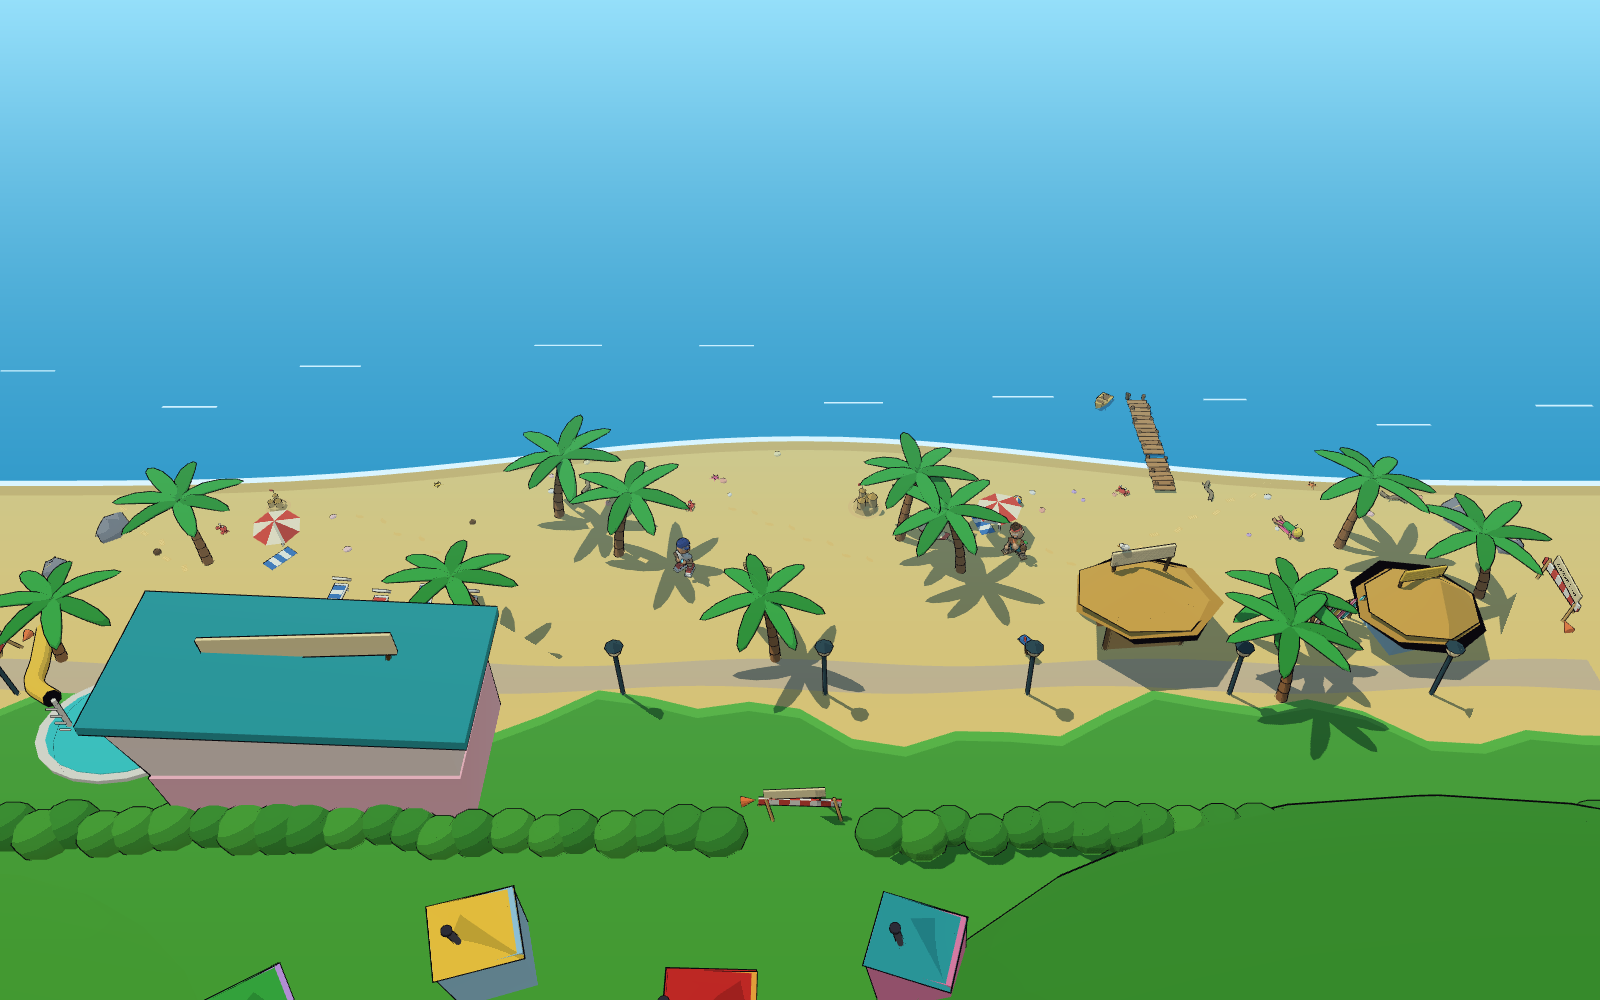
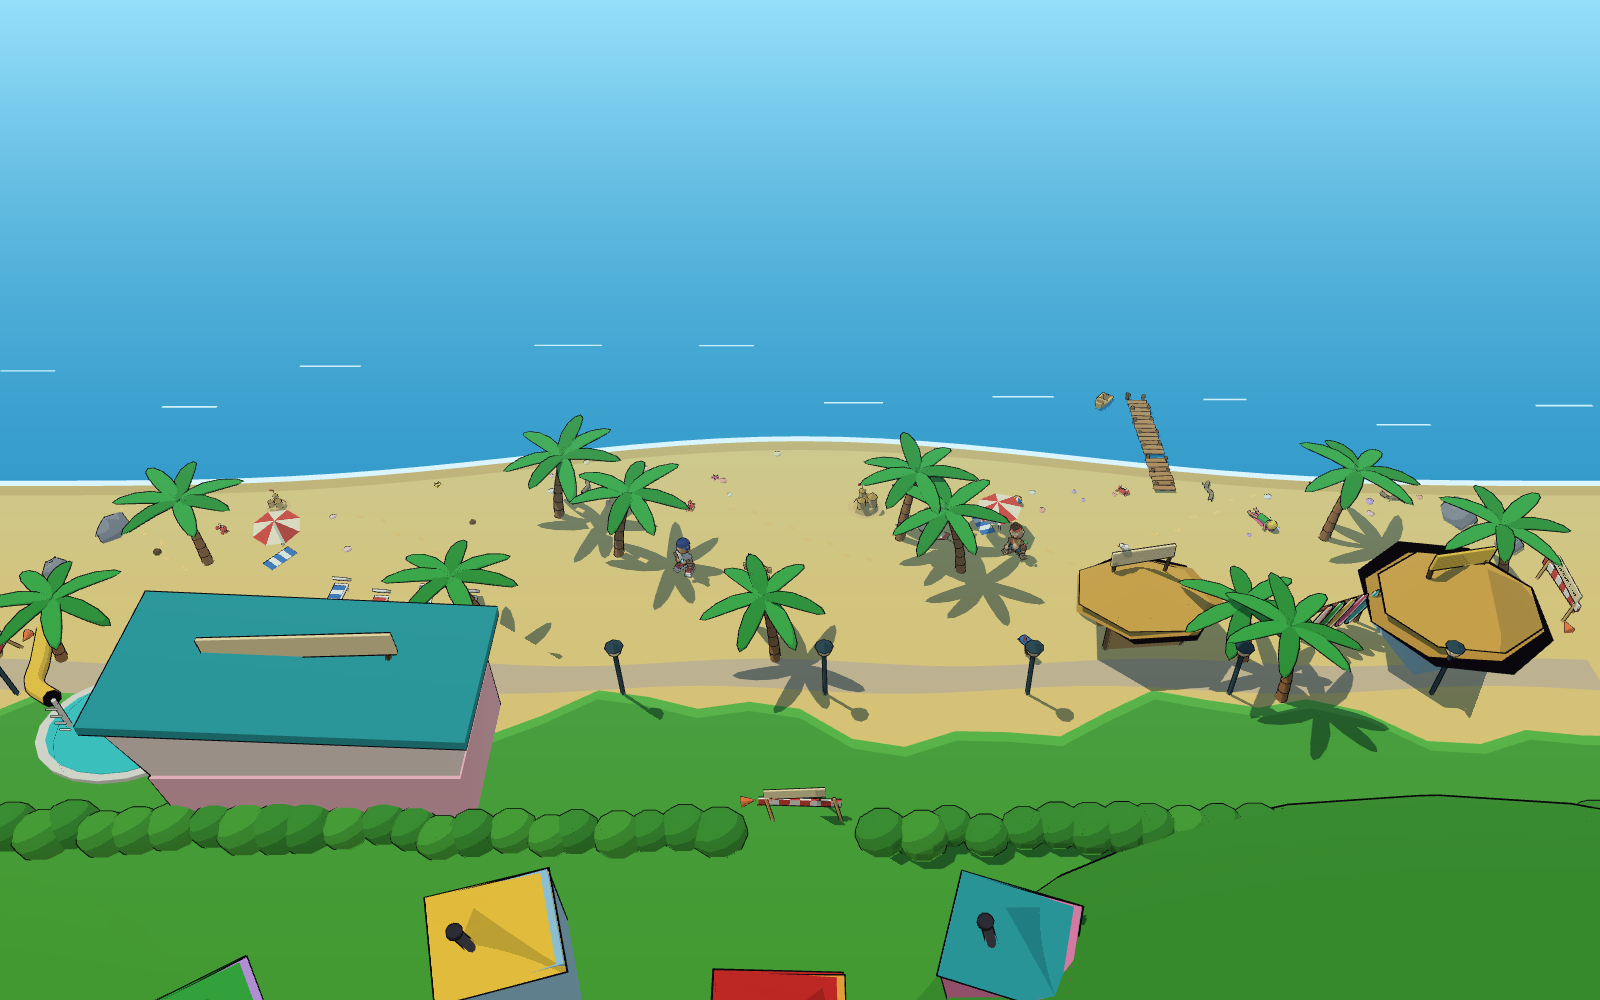
Prototyp: Verleih und Dorfhäuser größer

diff --git a/spiel/js/world.js b/spiel/js/world.js
@@ -3,7 +3,7 @@
 import * as THREE from 'three';
 import { toonMesh, toon, basicMat, deform, rng } from './toon.js';
 import { palm, beachBar, pier, boat, signpost, hammock, parasol, beachBall, coconut, crab, cloud, sun, footprints, limb, hut, mailbox, hotel, lounger, rental, sleepingSurfer, barrier, lamp, hedge, shell, starfish, sandcastle, driftwood } from './props.js';
-import { shoreZ, WORLD, BUILDING_SCALE as S, scaledRect, scaledCircle } from './logic.js';
+import { shoreZ, WORLD, buildingScale, scaledRect, scaledCircle } from './logic.js';
 
 export const WATER_Y = 0.06;
 
@@ -30,8 +30,8 @@ export function buildWorld() {
   const circle = (x, z, r) => colliders.push({ x, z, r });
   const rect = (x, z, w, d) => colliders.push({ x, z, w, d });
   // Gebäude werden als Gruppe um BUILDING_SCALE vergrößert; ihre Collider rechnen Offsets/Maße mit
-  const bRect = (o, dx, dz, w, d) => colliders.push(scaledRect(o, S, dx, dz, w, d));
-  const bCircle = (o, dx, dz, r) => colliders.push(scaledCircle(o, S, dx, dz, r));
+  const bRect = (o, s, dx, dz, w, d) => colliders.push(scaledRect(o, s, dx, dz, w, d));
+  const bCircle = (o, s, dx, dz, r) => colliders.push(scaledCircle(o, s, dx, dz, r));
 
   // Boden: Sand überall, darüber Gras im Norden, nasser Sand + Schaum + Wasser im Süden
   const sand = toonMesh(new THREE.PlaneGeometry(520, 520), 0xf7d984, { outline: 0, shadow: false });
@@ -69,16 +69,16 @@ export function buildWorld() {
   const mentor = hut({ w: 3, h: 2.4, d: 2.6, lean: 0.35, wall: 0x8b5a2b, straw: true, seed: 8 });
   mentor.position.set(-45, 11.5, -52);
   mentor.rotation.y = 0.4;
-  mentor.scale.setScalar(S);
+  mentor.scale.setScalar(buildingScale('mentor'));
   g.add(mentor);
 
   // Krummgassen-Kulisse hinter dem Nordrand
-  const huts = [[-8, -36, 0xf08ac4, 0x2fa9b9, 0.5, 2], [6, -40, 0xffb347, 0xd62e2e, -0.4, 3], [20, -35, 0x9fd8ff, 0xffd54a, 0.45, 4], [34, -41, 0xc9a0ff, 0x3bb84a, -0.5, 5]];
+  const huts = [[-14, -37, 0xf08ac4, 0x2fa9b9, 0.5, 2], [2, -42, 0xffb347, 0xd62e2e, -0.4, 3], [18, -36, 0x9fd8ff, 0xffd54a, 0.45, 4], [36, -43, 0xc9a0ff, 0x3bb84a, -0.5, 5]];
   for (const [x, z, wall, roofColor, lean, seed] of huts) {
     const h = hut({ w: 3.2, h: 3.0, d: 3.0, lean, wall, roofColor, seed });
     h.position.set(x, 0, z);
     h.rotation.y = (seed - 3) * 0.3;
-    h.scale.setScalar(S);
+    h.scale.setScalar(buildingScale('hut'));
     g.add(h);
   }
 
@@ -98,12 +98,13 @@ export function buildWorld() {
   const ho = hotel();
   const hoPos = { x: 34, z: -19 };
   ho.position.set(hoPos.x, 0, hoPos.z);
-  ho.scale.setScalar(S);
+  const hs = buildingScale('hotel');
+  ho.scale.setScalar(hs);
   // Pool nicht voll mitskalieren (sonst liegt er auf der Promenade): 1.2-fach, östlich neben dem Gebäude
-  ho.userData.pool.scale.setScalar(1.2 / S);
-  ho.userData.pool.position.set((52 - hoPos.x) / S, 0, (-16 - hoPos.z) / S);
+  ho.userData.pool.scale.setScalar(1.2 / hs);
+  ho.userData.pool.position.set((52 - hoPos.x) / hs, 0, (-16 - hoPos.z) / hs);
   g.add(ho);
-  bRect(hoPos, 0.3, 0, 15.2, 7.4);
+  bRect(hoPos, hs, 0.3, 0, 15.2, 7.4);
   rect(52, -16, 13.5, 10.5); // Pool (Rutsche hängt hoch genug)
   for (let i = 0; i < 4; i++) {
     const lo = lounger(i % 2 ? ['#3a7bd5', '#ffffff'] : ['#e8463a', '#fff5e0']);
@@ -116,18 +117,19 @@ export function buildWorld() {
 
   // Verleih im Westen + Surfer-Siesta
   const re = rental();
-  const rePos = { x: -50, z: -6 };
+  const rePos = { x: -52, z: -7 };
   re.position.set(rePos.x, 0, rePos.z);
   re.rotation.y = 0.25;
-  re.scale.setScalar(S);
+  const rs = buildingScale('rental');
+  re.scale.setScalar(rs);
   g.add(re);
-  bRect(rePos, 0, 0, 4.2, 3.4);
-  bRect(rePos, 3.8, 1.0, 3.4, 1.0);
+  bRect(rePos, rs, 0, 0, 4.2, 3.4);
+  bRect(rePos, rs, 3.8, 1.0, 3.4, 1.0);
   const su = sleepingSurfer();
-  su.position.set(-44, 0, 6);
+  su.position.set(-42, 0, 7);
   su.rotation.y = 0.5;
   g.add(su);
-  rect(-44, 6, 1.4, 3.0);
+  rect(-42, 7, 1.4, 3.0);
 
   // Felsen an den Enden des Strands
   for (const [x, z, sc] of [[-60, 8, 1.6], [-63, 4, 1.1], [62, 6, 1.4], [65, 1, 1.0], [58, 10, 0.8]]) {
@@ -141,7 +143,7 @@ export function buildWorld() {
 
   // Palmen entlang des Strands (Position, Neigung, Seed)
   const palms = [
-    [-58, -2, [1.2, 0, 0.6], 1], [-48, 4, [-0.9, 0, 0.8], 2], [-40, -8, [0.8, 0, 0.3], 3],
+    [-60, -1, [1.2, 0, 0.6], 1], [-57, 7, [-0.9, 0, 0.8], 2], [-36, -9, [0.8, 0, 0.3], 3],
     [-14, 1, [1.1, 0, 0.5], 4], [-9, 5, [-0.8, 0, 0.7], 5], [2, -9, [0.6, 0, 0.9], 6],
     [16, 3, [-1.0, 0, 0.6], 7], [26, -6, [1.2, 0, -0.3], 8], [52, 2, [0.7, 0, 0.9], 9],
     [60, -9, [-1.1, 0, 0.4], 10], [-38, -13, [0.5, 0, 1.0], 11], [22, 8, [-0.6, 0, 0.8], 12],
@@ -167,11 +169,12 @@ export function buildWorld() {
   const barPos = { x: -28, z: -6 };
   bar.position.set(barPos.x, 0, barPos.z);
   bar.rotation.y = 0.08;
-  bar.scale.setScalar(S);
+  const bs = buildingScale('bar');
+  bar.scale.setScalar(bs);
   g.add(bar);
-  bRect(barPos, 0, 0.4, 5.0, 2.2);   // Theke + Rückwand
-  bCircle(barPos, -2.1, -1.1, 0.25); bCircle(barPos, 2.1, -1.1, 0.25); bCircle(barPos, -1.9, 1.0, 0.25); bCircle(barPos, 2.1, 1.0, 0.25);
-  bCircle(barPos, -1.1, 1.9, 0.4); bCircle(barPos, 0.5, 1.9, 0.4); // Hocker
+  bRect(barPos, bs, 0, 0.4, 5.0, 2.2);   // Theke + Rückwand
+  bCircle(barPos, bs, -2.1, -1.1, 0.25); bCircle(barPos, bs, 2.1, -1.1, 0.25); bCircle(barPos, bs, -1.9, 1.0, 0.25); bCircle(barPos, bs, 2.1, 1.0, 0.25);
+  bCircle(barPos, bs, -1.1, 1.9, 0.4); bCircle(barPos, bs, 0.5, 1.9, 0.4); // Hocker
 
   // Steg vom Strand ins Meer, mit Boot
   const pierObj = pier({ length: 14, seed: 5 });
@@ -239,9 +242,9 @@ export function buildWorld() {
     pier: { x: -37, z: 9, yaw: 0.4 },
     mitte: { x: 6, z: 5, yaw: -2.4 },
     hotel: { x: 20, z: -4, yaw: 1.3 },
-    verleih: { x: -40, z: 2, yaw: 2.4 },
+    verleih: { x: -45, z: 3, yaw: 0.3 },
     ost: { x: 58, z: -2, yaw: Math.PI / 2 },
-    nord: { x: 0, z: -16, yaw: 0.3 },
+    nord: { x: 8, z: -17, yaw: 0.3 },
   };
   return { group: g, colliders, spots };
 }

diff --git a/spiel/js/main.js b/spiel/js/main.js
@@ -148,25 +148,28 @@ function unfadeAll(keep) {
     faded.delete(m);
   }
 }
+const FADE_TARGET_HEIGHTS = [2.5, 0.8]; // Kopf und Knie: Palmenkronen hängen sonst über dem Brust-Strahl
 function updateFade() {
   const camPos = camera.position;
-  const target = tmpV.set(state.x, 1.4, state.z);
-  const dist = camPos.distanceTo(target);
-  fadeRay.set(camPos, target.clone().sub(camPos).normalize());
-  fadeRay.far = dist - 0.8;
   const keep = new Set();
-  // Vorfilter (reine Logik, getestet): Props, deren Kugel die Sichtlinie schneidet oder vor der Linse liegt
-  const candidates = [];
-  for (const o of world.group.children) {
-    if (o.userData.sphere && isOccluder(camPos, target, o.userData.sphere)) candidates.push(o);
-  }
-  // Feinprüfung per Raycast gegen die Meshes der Kandidaten (eine große Kugel heißt noch nicht Treffer)
-  const hits = fadeRay.intersectObjects(candidates, true);
   const groups = new Set();
-  for (const h of hits) {
-    let o = h.object;
-    while (o.parent && o.parent !== world.group) o = o.parent;
-    groups.add(o);
+  const candidates = [];
+  for (const h of FADE_TARGET_HEIGHTS) {
+    const target = tmpV.set(state.x, h, state.z);
+    const dist = camPos.distanceTo(target);
+    // Vorfilter (reine Logik, getestet): Props, deren Kugel die Sichtlinie schneidet oder vor der Linse liegt
+    candidates.length = 0;
+    for (const o of world.group.children) {
+      if (o.userData.sphere && isOccluder(camPos, target, o.userData.sphere)) candidates.push(o);
+    }
+    // Feinprüfung per Raycast gegen die Meshes der Kandidaten (eine große Kugel heißt noch nicht Treffer)
+    fadeRay.set(camPos, target.clone().sub(camPos).normalize());
+    fadeRay.far = dist - 0.8;
+    for (const hit of fadeRay.intersectObjects(candidates, true)) {
+      let o = hit.object;
+      while (o.parent && o.parent !== world.group) o = o.parent;
+      groups.add(o);
+    }
   }
   // direkt vor der Linse: Mesh-Kugel nahe an der Kamera
   for (const o of candidates) {

diff --git a/spiel/js/logic.js b/spiel/js/logic.js
@@ -198,16 +198,19 @@ export function cameraTargetPos(player, camYaw) {
 
 // ---------- Maßstab der Gebäude (50 % größer als ursprünglich, Figuren bleiben) ----------
 export const FIGURE_HEIGHT = 2.75;   // Schluffi mit Haaren, Einheiten
-export const BUILDING_SCALE = 1.5;
+// Skalierung je Gebäudetyp (einzeln drehbar): Bar/Hotel 1.5, Verleih/Dorfhäuser/Mentor-Hütte 2.1
+export const BUILDING_SCALES = { bar: 1.5, hotel: 1.5, rental: 2.1, hut: 2.1, mentor: 2.1 };
 // Basishöhen (unskaliert) der Bauteile aus props.js: Dachspitze über dem Boden bzw. Türhöhe
 export const BUILDING_BASE = {
   bar: { height: 4.55, door: 0 },
   hut: { height: 4.1, door: 1.9 },
+  mentor: { height: 4.1, door: 1.9 },
   rental: { height: 4.0, door: 1.9 },
   hotel: { height: 7.35, door: 2.6 },
 };
-export const buildingHeight = (name) => BUILDING_BASE[name].height * BUILDING_SCALE;
-export const doorHeight = (name) => BUILDING_BASE[name].door * BUILDING_SCALE;
+export const buildingScale = (name) => BUILDING_SCALES[name];
+export const buildingHeight = (name) => BUILDING_BASE[name].height * BUILDING_SCALES[name];
+export const doorHeight = (name) => BUILDING_BASE[name].door * BUILDING_SCALES[name];
 
 // Collider eines skalierten Gebäudes: Offsets/Maße relativ zur Gebäude-Position mitskalieren
 export function scaledRect(origin, scale, dx, dz, w, d) {

diff --git a/spiel/test/logic.test.js b/spiel/test/logic.test.js
@@ -207,10 +207,12 @@ test('isOccluder: Szene „mitte“ — Wegweiser steht NICHT zwischen Kamera un
 });
 
 // ---------- Gebäudemaßstab ----------
-import { FIGURE_HEIGHT, BUILDING_SCALE, BUILDING_BASE, buildingHeight, doorHeight, scaledRect, scaledCircle } from '../js/logic.js';
+import { FIGURE_HEIGHT, BUILDING_SCALES, BUILDING_BASE, buildingHeight, doorHeight, scaledRect, scaledCircle } from '../js/logic.js';
 
 test('Gebäude sind mindestens 1,5 × Figurenhöhe, Türen figurengroß', () => {
-  assert.equal(BUILDING_SCALE, 1.5);
+  assert.deepEqual(Object.keys(BUILDING_SCALES).sort(), Object.keys(BUILDING_BASE).sort(), 'jeder Typ hat Skala + Basis');
+  assert.equal(BUILDING_SCALES.bar, 1.5); assert.equal(BUILDING_SCALES.hotel, 1.5);
+  assert.equal(BUILDING_SCALES.rental, 2.1); assert.equal(BUILDING_SCALES.hut, 2.1);
   for (const name of Object.keys(BUILDING_BASE)) {
     assert.ok(buildingHeight(name) >= 1.5 * FIGURE_HEIGHT, `${name}: ${buildingHeight(name)} < ${1.5 * FIGURE_HEIGHT}`);
     if (BUILDING_BASE[name].door > 0) assert.ok(doorHeight(name) >= FIGURE_HEIGHT, `${name}: Tür ${doorHeight(name)} zu niedrig`);

diff --git a/spiel/README.md b/spiel/README.md
@@ -47,9 +47,10 @@ Standbild (für die PNGs in `shots/`).
 ## Technik
 - **Koordinaten:** x nach Osten, z nach Süden (zum Meer). 1 Laufsekunde ≈ 4 Einheiten, Figur ≈ 2.75 hoch,
   Zone ≈ 132 × 40 Einheiten → einmal quer ≈ 33 s gehen.
-- **Maßstab der Gebäude:** Bar, Verleih, Hotel und Hütten sind als Gruppe um `BUILDING_SCALE` (1.5) vergrößert,
-  ihre Collider rechnen Offsets und Maße mit (`scaledRect`/`scaledCircle`). Ein Test sichert, dass jedes Gebäude
-  mindestens 1.5 × Figurenhöhe hoch ist und Türen figurengroß sind. Palmen (1.4), Laternen (1.4), Schirme,
+- **Maßstab der Gebäude:** je Gebäudetyp eine eigene Skala in `BUILDING_SCALES` (Bar und Hotel 1.5, Verleih,
+  Dorfhäuser und Mentor-Hütte 2.1); die Gruppen werden damit vergrößert, ihre Collider rechnen Offsets und Maße mit
+  (`scaledRect`/`scaledCircle`). Ein Test sichert, dass jeder Typ Skala und Basismaße hat, jedes Gebäude mindestens
+  1.5 × Figurenhöhe hoch ist und Türen figurengroß sind. Palmen (1.4), Laternen (1.4), Schirme,
   Liegen, Absperrungen (1.3) und Wegweiser (1.25) sind moderat mitgewachsen; Figuren und Kleinkram nicht.
 - **Bewegung:** Richtung aus Tasten relativ zur Kamera; Tempo läuft weich an und aus; die Figur dreht sich
   exponentiell in Laufrichtung. Die Watschel-Phase wächst mit der tatsächlich zurückgelegten Strecke, also bleibt
@@ -60,7 +61,8 @@ Standbild (für die PNGs in `shots/`).
 - **Kamera:** fester Offset (13 zurück, 13 hoch, ≈ 45°) um die Gierung gedreht, Position und Blickpunkt
   exponentiell nachgezogen. Standard steht die Kamera im Norden und schaut übers Land aufs Meer — so ist das Wasser
   fast immer im Bild; mit Q/E dreht man sich die Hütten und Hügel ins Bild.
-- **Verdeckung:** Jeden Frame geht ein Strahl von der Kamera zum Spieler. Vorfilter ist die reine Funktion
+- **Verdeckung:** Jeden Frame gehen zwei Strahlen von der Kamera zum Spieler (Kopf- und Kniehöhe, damit auch
+  hängende Palmenkronen zählen). Vorfilter ist die reine Funktion
   `isOccluder()` (Kugel schneidet die Sichtlinie oder liegt vor der Linse, getestet), danach ein Raycast gegen die
   Meshes der Kandidaten. Getroffene Props werden als ganze Gruppe auf 25 % Deckkraft gesetzt — inklusive
   Kontur-Hülle (der Kontur-Shader hat dafür ein `opacity`-Uniform). Weil Materialien pro Farbe geteilt sind, bekommt
